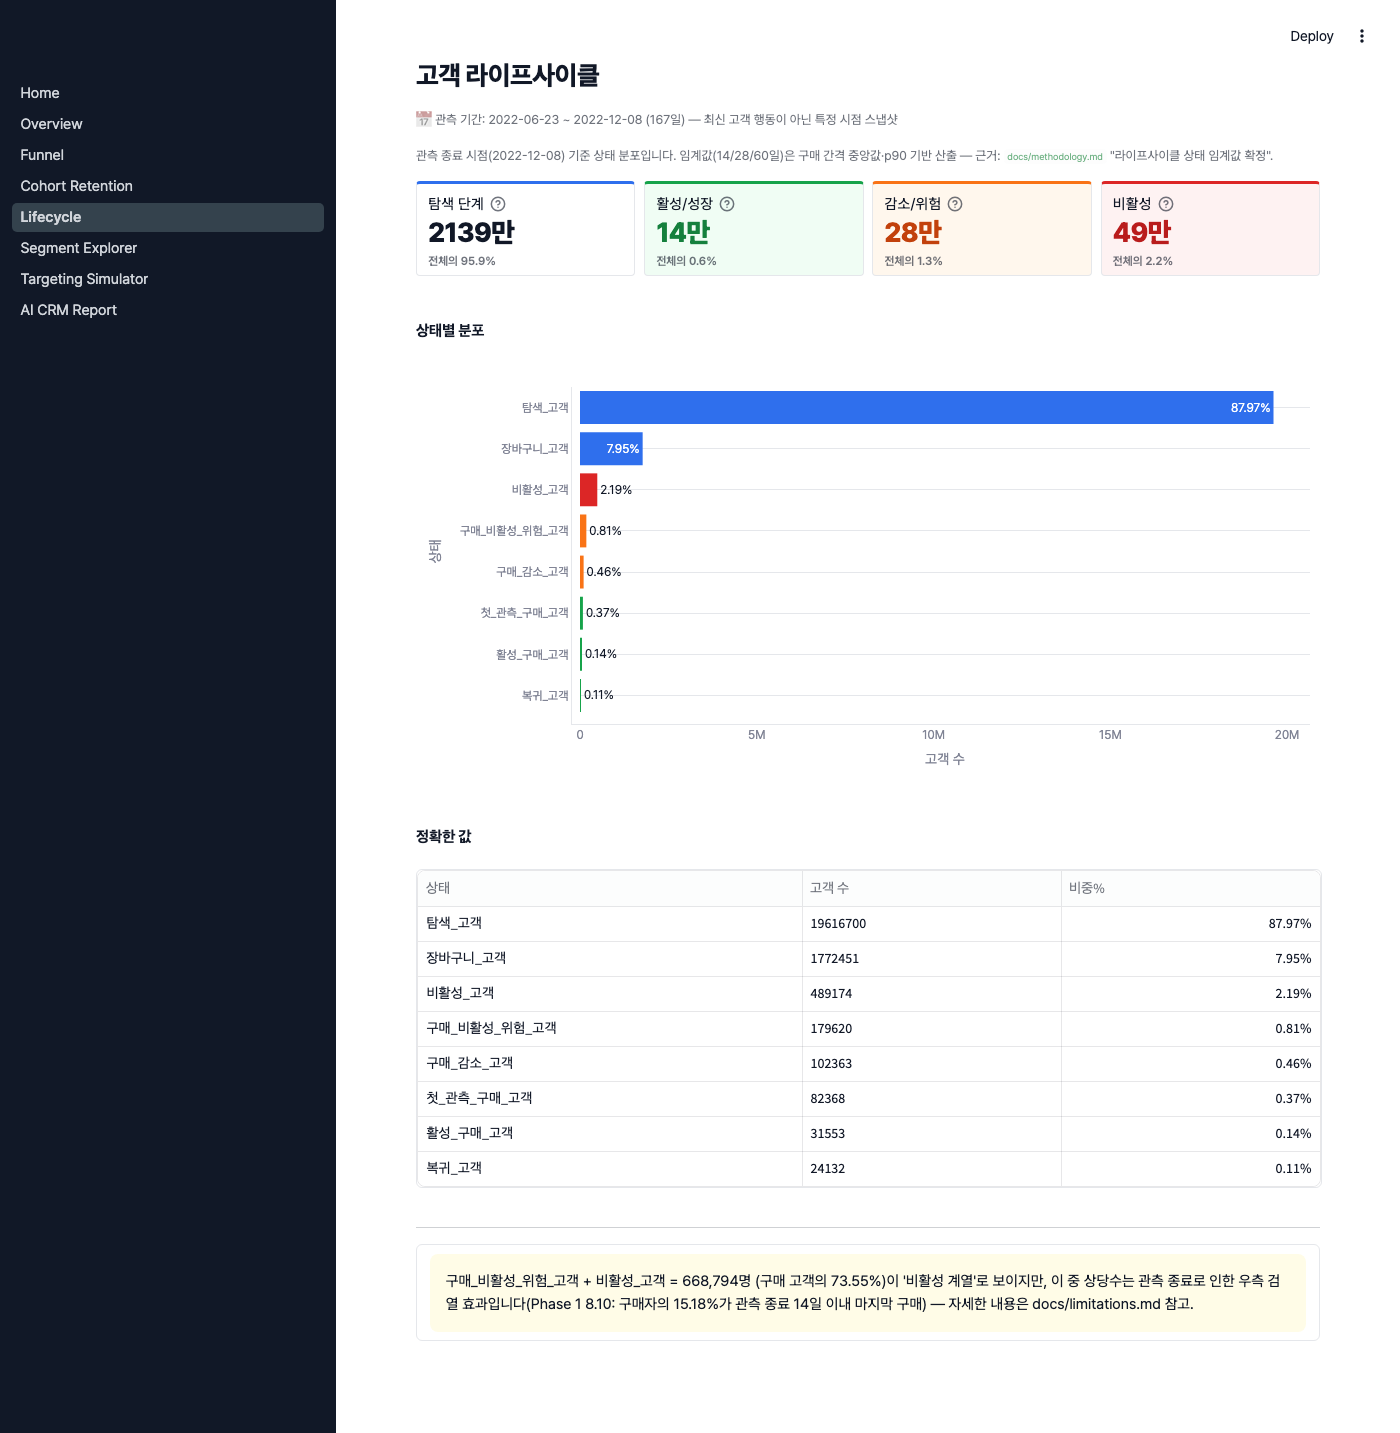
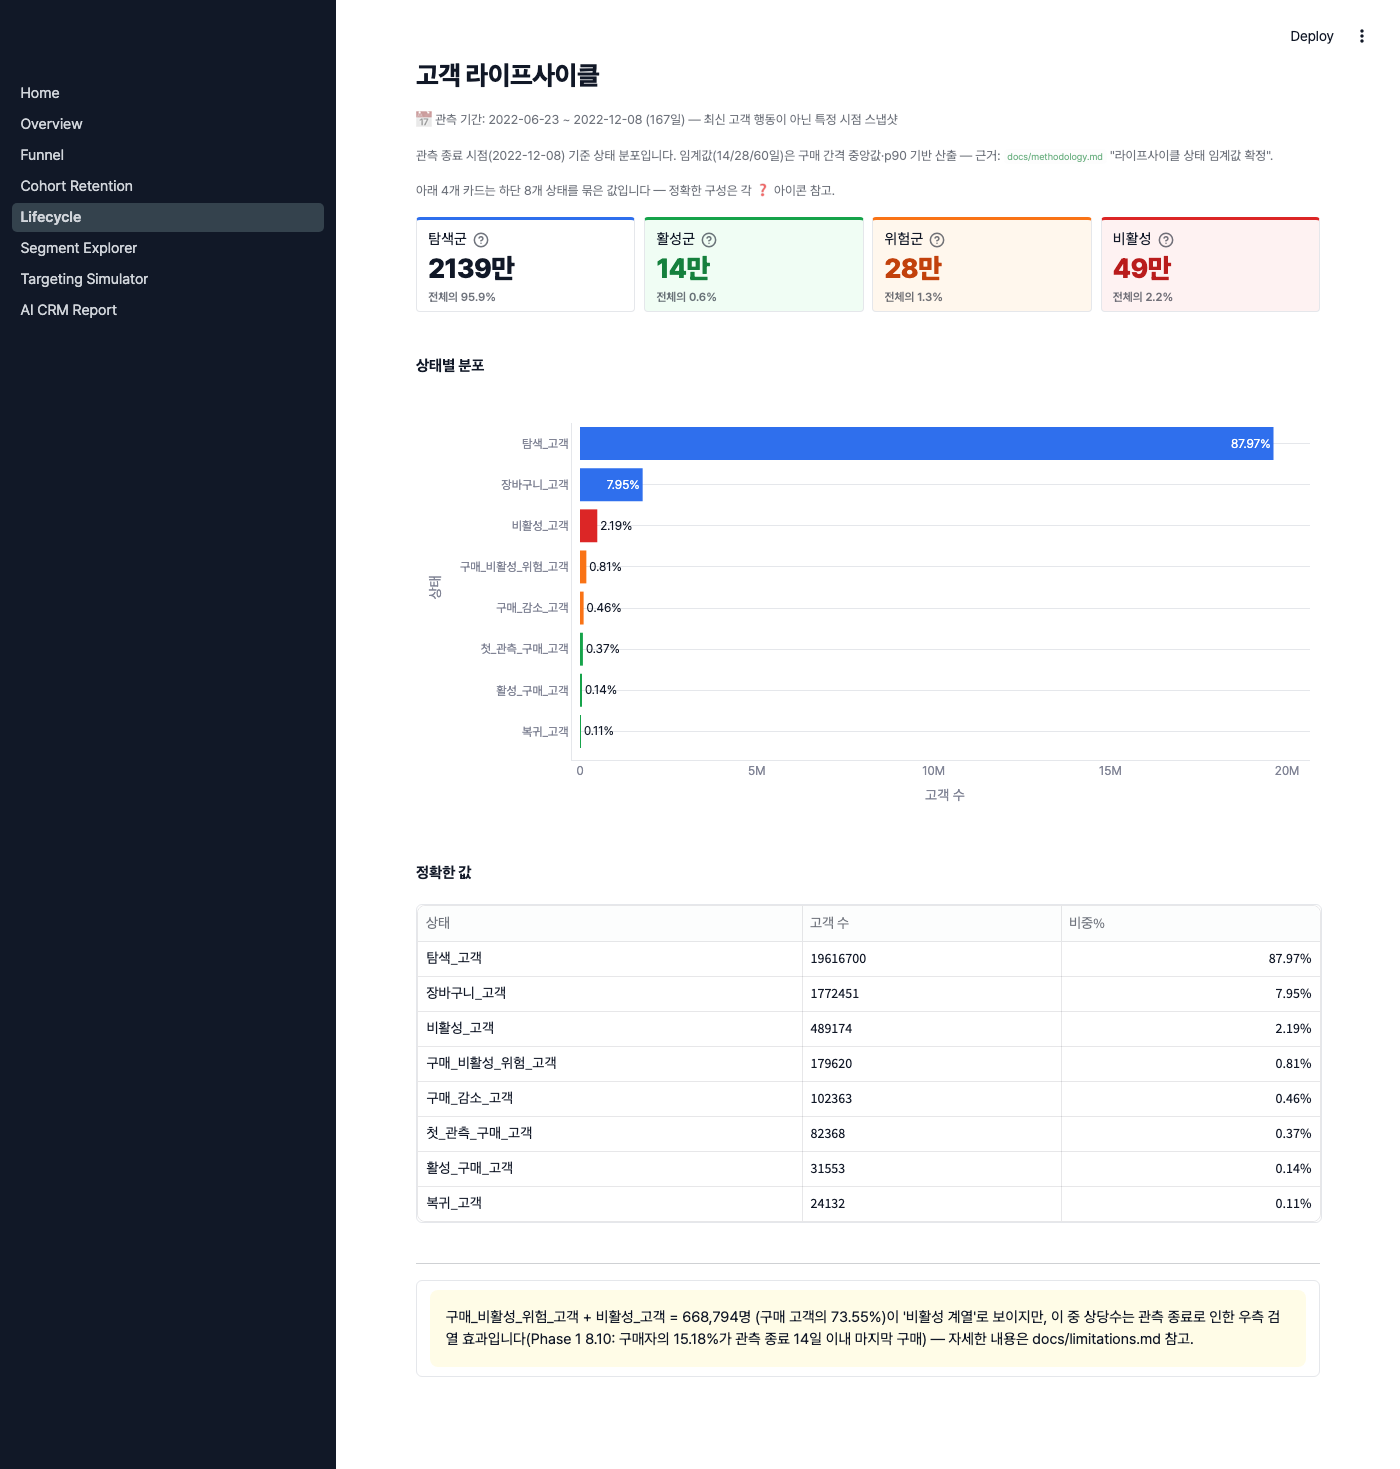
fix(dashboard): clarify lifecycle summary cards are grouped values, prevent label truncation

diff --git a/app/pages/4_Lifecycle.py b/app/pages/4_Lifecycle.py
@@ -32,19 +32,20 @@ TONE_COLOR = {"neutral": BRAND, "positive": POSITIVE, "warning": WARNING, "dange
 df["tone"] = df["lifecycle_stage"].map(lambda s: TONE_BY_STAGE.get(s, "neutral"))
 
 group = df.groupby("tone")["n"].sum()
+st.caption("아래 4개 카드는 하단 8개 상태를 묶은 값입니다 — 정확한 구성은 각 ❓ 아이콘 참고.")
 c1, c2, c3, c4 = st.columns(4)
-metric(c1, "explore", "탐색 단계", format_count(group.get("neutral", 0)),
+metric(c1, "explore", "탐색군", format_count(group.get("neutral", 0)),
        sub=f"전체의 {group.get('neutral', 0)/df['n'].sum()*100:.1f}%",
-       help="탐색_고객 + 장바구니_고객")
-metric(c2, "active", "활성/성장", format_count(group.get("positive", 0)),
+       help="탐색_고객 + 장바구니_고객을 합친 값입니다")
+metric(c2, "active", "활성군", format_count(group.get("positive", 0)),
        sub=f"전체의 {group.get('positive', 0)/df['n'].sum()*100:.1f}%", tone="positive",
-       help="구매 활성/성장 — 첫_관측_구매_고객 + 활성_구매_고객 + 복귀_고객")
-metric(c3, "declining", "감소/위험", format_count(group.get("warning", 0)),
+       help="첫_관측_구매_고객 + 활성_구매_고객 + 복귀_고객을 합친 값입니다")
+metric(c3, "declining", "위험군", format_count(group.get("warning", 0)),
        sub=f"전체의 {group.get('warning', 0)/df['n'].sum()*100:.1f}%", tone="warning",
-       help="구매 감소/위험 — 구매_비활성_위험_고객 + 구매_감소_고객")
+       help="구매_비활성_위험_고객 + 구매_감소_고객을 합친 값입니다")
 metric(c4, "inactive", "비활성", format_count(group.get("danger", 0)),
        sub=f"전체의 {group.get('danger', 0)/df['n'].sum()*100:.1f}%", tone="danger",
-       help="비활성_고객")
+       help="비활성_고객 단일 상태입니다 (다른 상태와 합산 없음)")
 
 st.subheader("상태별 분포")
 plot_df = df.sort_values("n", ascending=True)
